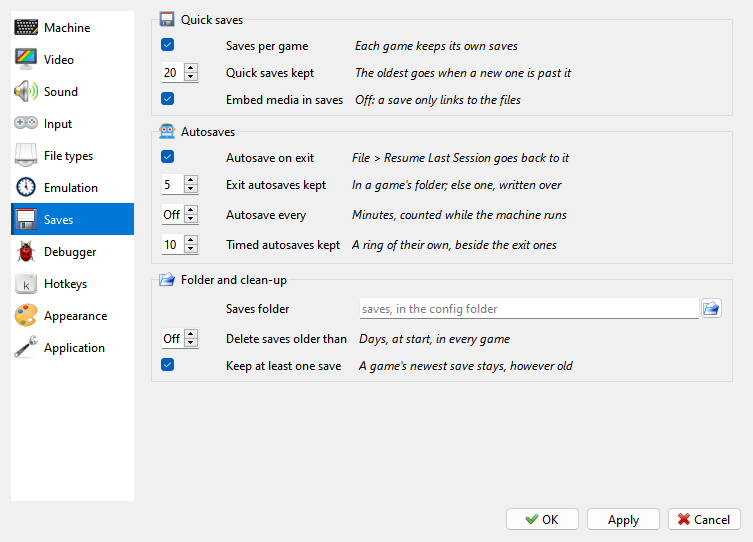
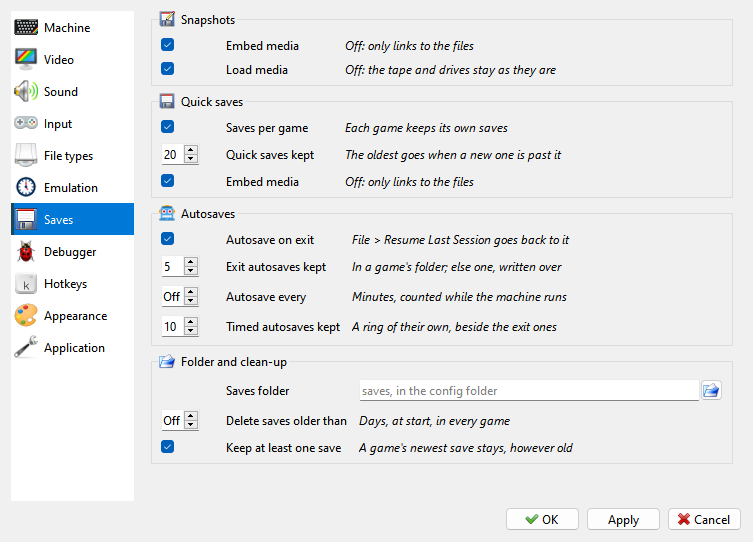
manual: snapshots with their tape and disks, the Saves page, the SZX page
The SZX format page moves in from docs/ under Implementation notes.

diff --git a/docs/manual/files.md b/docs/manual/files.md
@@ -153,6 +153,12 @@ what is saved: **Snapshot**, **Tape** when a tape is in, and **Disk A** to **Dis
 each drive with a disk. Type the extension of the format you want; with no extension the
 file gets `.szx`, `.tap` or `.trd`.
 
+When a tape or a disk is in, there are two snapshot types. **Snapshot with tape and disks**
+puts the images inside the `.szx`; **Snapshot** only names them. The dialog remembers the
+one you picked last. The first time, the program asks once which you want, unless you have
+picked the other type yourself; the [Saves page](options-saves.md) of **Options** changes
+the answer later.
+
 **WAV recording, export** writes the tape as sound (see
 [Export to WAV](tapes.md#export-to-wav)). It is a copy, not the tape's own file, so the
 tape still counts as changed after the export.
@@ -182,19 +188,29 @@ moment, and it runs on from there.
 **SZX** is the format to use. A `.szx` saved by Xpeccy+ keeps everything: memory, the
 processor, the sound chips, the disk controller, the tape position, and the exact point in
 the frame. It also records the machine it was taken on, and the file names of the tape and
-the disks. The images themselves are not inside: save a changed disk too.
+the disks. Saved as **Snapshot with tape and disks**, it carries the images too, as they
+were at that moment: the tape, the TR-DOS disks and the +3 disks. A tape that was recorded
+onto, or one over 4 MB (a long WAV), is only named.
 
 When an SZX is opened, its tape and disks go back in: from where they were, or from the
 snapshot's own folder. The tape is wound to the block it was at. A disk that is already
-in its drive is left as it is, so what was written to it since is not lost. Images that a
-snapshot carries inside it are written to the system's temporary folder and put in from
-there.
+in its drive is left as it is, so what was written to it since is not lost. A drive the
+snapshot had empty, or a tape it did not have, stays as it is. **Load media** on the
+[Saves page](options-saves.md) can leave all media as they are. Images that a snapshot
+carries inside it go back in under their old names.
+
+A carried disk goes back to its file only when you save it. If it had unsaved changes when
+the snapshot was taken, or its file is no longer there, it counts as changed, so the program
+asks to save it when you close it, eject the disk or put another one in. When the file is
+gone, the answer **Yes** opens the Save dialog with the old name.
 
 An SZX opens on exactly the model it names. If that model is not one of the built-in
 machines, it opens on the nearest one. When the snapshot was taken with something the
 machine does not have - other ULA timings, ULA+, an AY, a disk interface, a device that
 is not emulated - a warning lists what is missing. The machine's settings are not changed
 to match.
+
+What an SZX holds and how Xpeccy+ reads it is in [SZX snapshots](szx.md).
 
 ```{index} Z80, SNA
 ```
@@ -242,10 +258,9 @@ was taken; hold the mouse over one to see its picture, click it to load it.
 
 ![The Quick Saves menu](images/menu-quick-saves.png)
 
-A save takes the tape and the TR-DOS disks with it. Loading it puts them back as they were
+A save takes the tape and the disks with it. Loading it puts them back as they were
 when it was taken: the tape at its place, and a disk with whatever the game had written to
-it by then. So a save still loads after the image or its archive was moved or deleted. A
-+3 disk is not carried: the save names it, and it has to stay where it was.
+it by then. So a save still loads after the image or its archive was moved or deleted.
 
 **File > Undo Quick Load** (Ctrl+F9) takes back the last quick load and returns to where you
 were, the tape and the disks too. Use it again to redo the quick load.

diff --git a/docs/manual/szx.md b/docs/manual/szx.md
@@ -1,10 +1,15 @@
-# SZX snapshots in Xpeccy+
+# SZX snapshots
+
+```{index} SZX; format, snapshot; SZX format
+```
 
 How Xpeccy+ reads and writes zx-state (`.szx`) files: what it takes from each standard block,
 what it adds, and where. The format is Spectaculator's, version 1.5, maintained by Jonathan
-Needle ([the specification](http://www.spectaculator.com/redirect.php?id=szx)); this page only covers what the spec leaves open and what Xpeccy+ keeps beyond it. The code is
-`src/libxpeccy/filetypes/szx.c` (the standard blocks) and `szx_ext.c` (our own data); where
-this page and the code disagree, the code is right.
+Needle ([the specification](http://www.spectaculator.com/redirect.php?id=szx)); this page only
+covers what the spec leaves open and what Xpeccy+ keeps beyond it. How to save and open a
+snapshot is in [Snapshots](files.md#snapshots). The code is `src/libxpeccy/filetypes/szx.c`
+(the standard blocks) and `szx_ext.c` (our own data); where this page and the code disagree,
+the code is right.
 
 It is written so that another emulator can read our files, write files we read, and - for the
 two machines the spec has no blocks for, TSConf and TurboSound FM - agree on a shared block.
@@ -89,11 +94,14 @@ What the spec leaves open, and how it is read here:
   the way `TAPE` has it: with `EMBEDDED` set, `chData` is the `.dsk` file's own bytes and
   `dwUncompressedSize` its length; with `COMPRESSED` too, the bytes are a zlib stream that
   unpacks to that length. It writes an extended `.dsk` (`EXTENDED CPC DSK File`), packed when
-  that gains anything. Fuse skips the block whatever it holds.
+  that gains anything.
 - **Carried media**: an image written into the file (the tape as its file is, a Beta disk as
   a UDI, a +3 disk as a `.dsk`) still goes back in under its old name, from our `LINK`
   record. A disk that was unsaved when the file was written, or whose file is gone, comes
   back unsaved, so the program asks to save it.
+- **Empty drives**: a drive with no `BDSK` or `DSK` block, or no `TAPE` block, keeps what
+  is in it on loading: the file says nothing about it. The user can keep the file's media
+  out altogether (**Load media** on the Saves page); a quick load always puts them in.
 
 ## Our data: the creator block's `chData`
 

diff --git a/docs/manual/options-saves.md b/docs/manual/options-saves.md
@@ -5,8 +5,18 @@
 
 ![The Saves page](images/options-saves.png)
 
-The **Saves** page of **Options** sets where the [quick saves](files.md#quick-saves) and
-autosaves go and how many of them stay.
+The **Saves** page of **Options** sets what a [snapshot](files.md#snapshots) carries, and
+where the [quick saves](files.md#quick-saves) and autosaves go and how many of them stay.
+
+**Snapshots**
+
+- **Embed media** - a snapshot saved with **File > Save...** carries the tape and the disks,
+  as they were; off, it only links to the files. The type picked in the Save dialog sets it
+  too. Until it is set, here or in the dialog, the first snapshot saved with a tape or a disk
+  in asks.
+- **Load media** - opening a snapshot puts its tape and disks in; what it did not have is
+  left as it is. Off, the tape and the drives stay as they are. Quick saves and autosaves
+  always load with their media.
 
 **Quick saves**
 
@@ -14,7 +24,7 @@ autosaves go and how many of them stay.
   into one folder, whatever runs on it.
 - **Quick saves kept** - how many quick saves a game keeps; a new one past that deletes the
   oldest. 20 by default.
-- **Embed media in saves** - a save carries the tape and the TR-DOS disks, as they were, and
+- **Embed media** - a quick save or an autosave carries the tape and the disks, as they were, and
   brings them back. Off, a save only links to the files: smaller, but they have to stay where
   they are.
 

diff --git a/docs/manual/implementation.md b/docs/manual/implementation.md
@@ -1,0 +1,14 @@
+# Implementation notes
+
+```{index} implementation notes
+```
+
+How Xpeccy+ does some things that the rest of this manual only uses: file formats, what it
+keeps beyond them and why. These pages are for those who want the details, and for other
+programs that read or write the same files.
+
+```{toctree}
+:maxdepth: 2
+
+szx
+```

diff --git a/docs/manual/index.md b/docs/manual/index.md
@@ -23,4 +23,5 @@ context-menu
 options
 command-line
 debugger
+implementation
 ```
